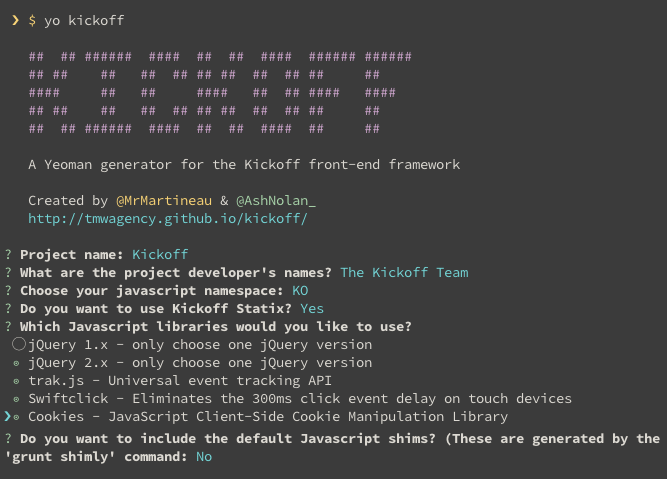
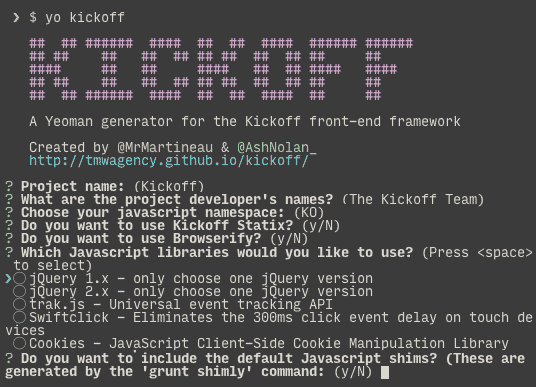
update readme

Changed region(s): [[0.0, 0.093, 1.0, 0.9922], [0.0, 0.031, 0.2388, 0.062], [0.8955, 0.6202, 0.9851, 0.6822]]

diff --git a/README.md b/README.md
@@ -1,5 +1,5 @@
 ## [Yeoman](http://yeoman.io) generator for the [Kickoff framework](https://github.com/tmwagency/kickoff/)
-Using our Yeoman Generator is the best and fastest way to get Kickoff each time you want to start a new project. It will ask a few questions and then build a custom version of Kickoff for your needs.
+Using our Yeoman Generator is the best and fastest way to get Kickoff each time you want to start a new project. It will ask a few questions and then build a custom version of [Kickoff version 4.0.0](https://github.com/tmwagency/kickoff/releases/tag/4.0.0) for your needs.
 
 ## What is Yeoman?
 Yeoman helps you kickstart new projects, prescribing best practices and tools to help you stay productive. Yeoman is open-source but is maintained by a number of people from Google.
@@ -37,9 +37,10 @@ yo kickoff
 1. Project name
 1. What are the project developer's names?
 1. Choose your javascript namespace (default is `KO`)
-1. Do you want to use Kickoff [Statix](/kickoff/statix/)?
+1. Do you want to use Kickoff [Statix](/kickoff/statix/)? (y/N)
+1. Do you want to use Browserify? (y/N)
 1. Which javascript libraries would you like to use? jQuery v1.x/2.x, Trak.js, Swiftclick & Cookies are the options
-1. Do you want to include the default Javascript shims? (These are generated by the `grunt shimly` command)
+1. Do you want to include the default Javascript shims? (These are generated by the `grunt shimly` command) (y/N)
 
 ![Kickoff Yeoman generator screenshot](screenshot.png)
 
